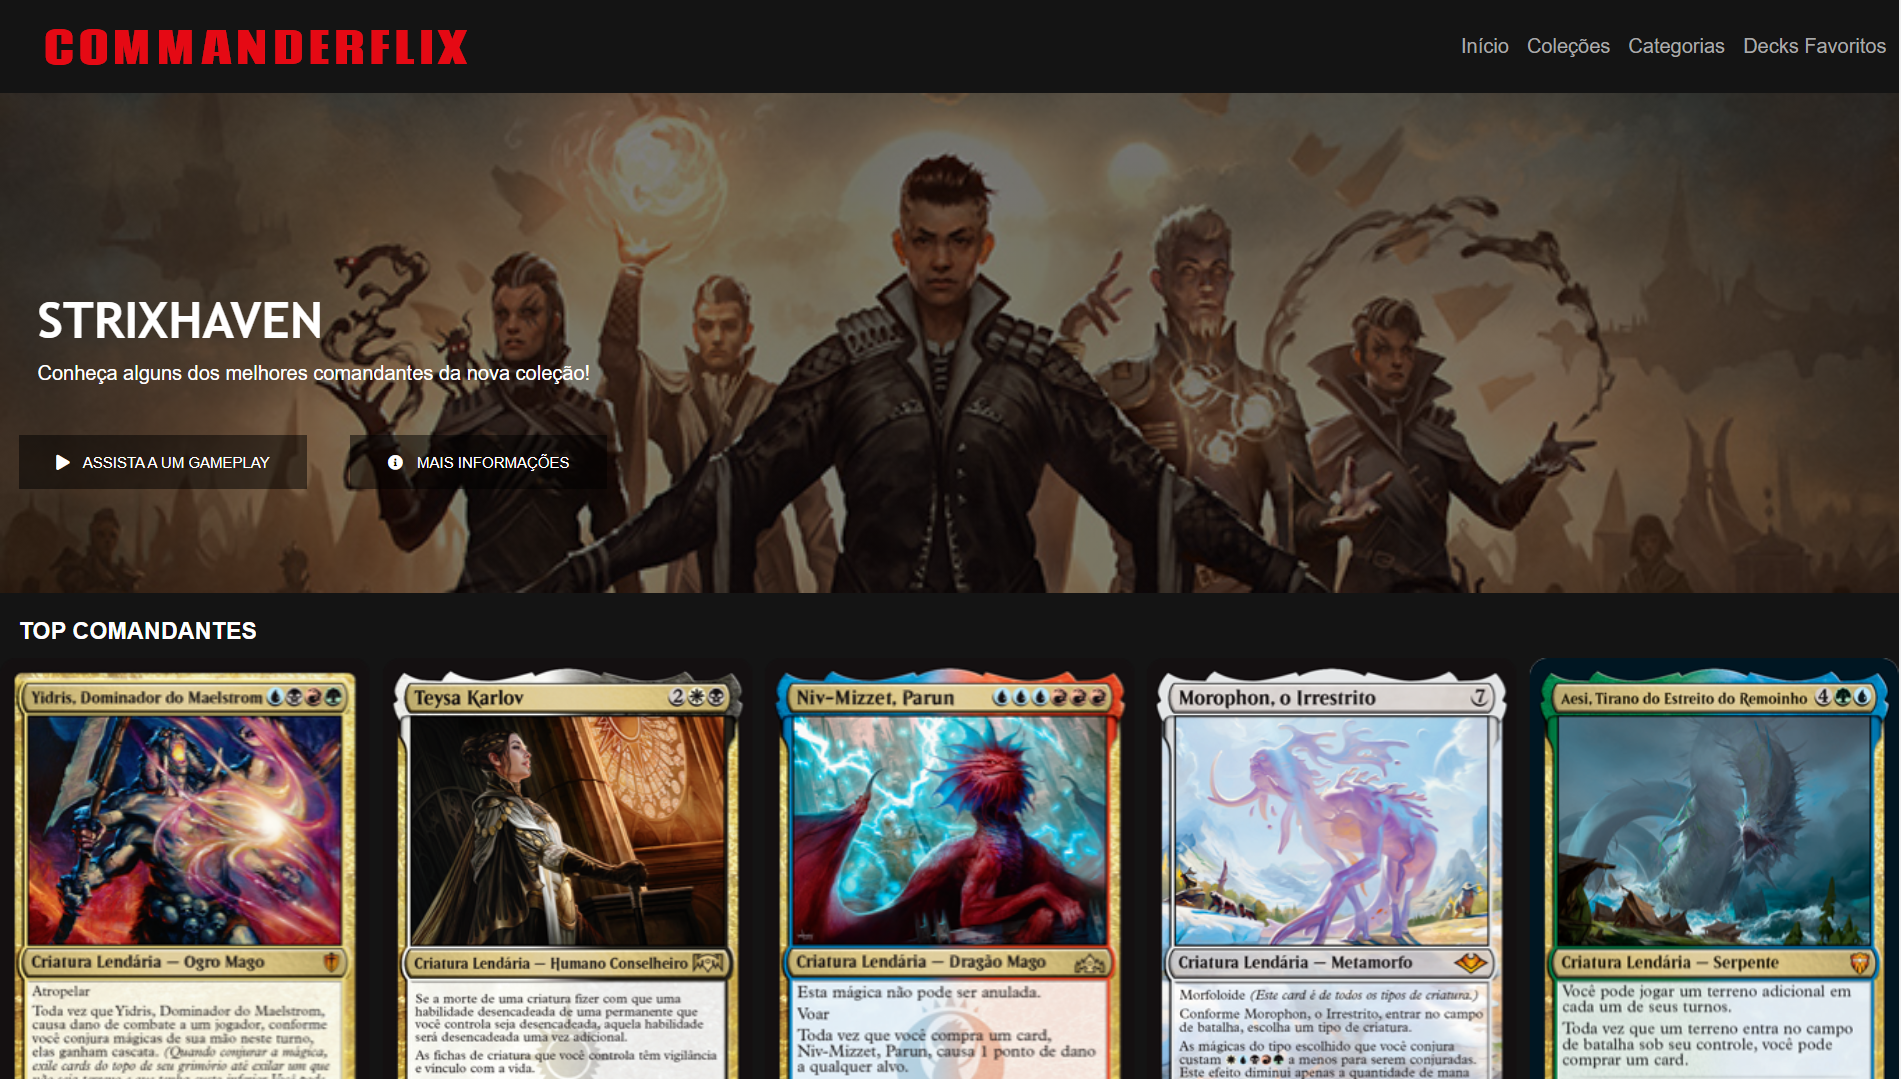
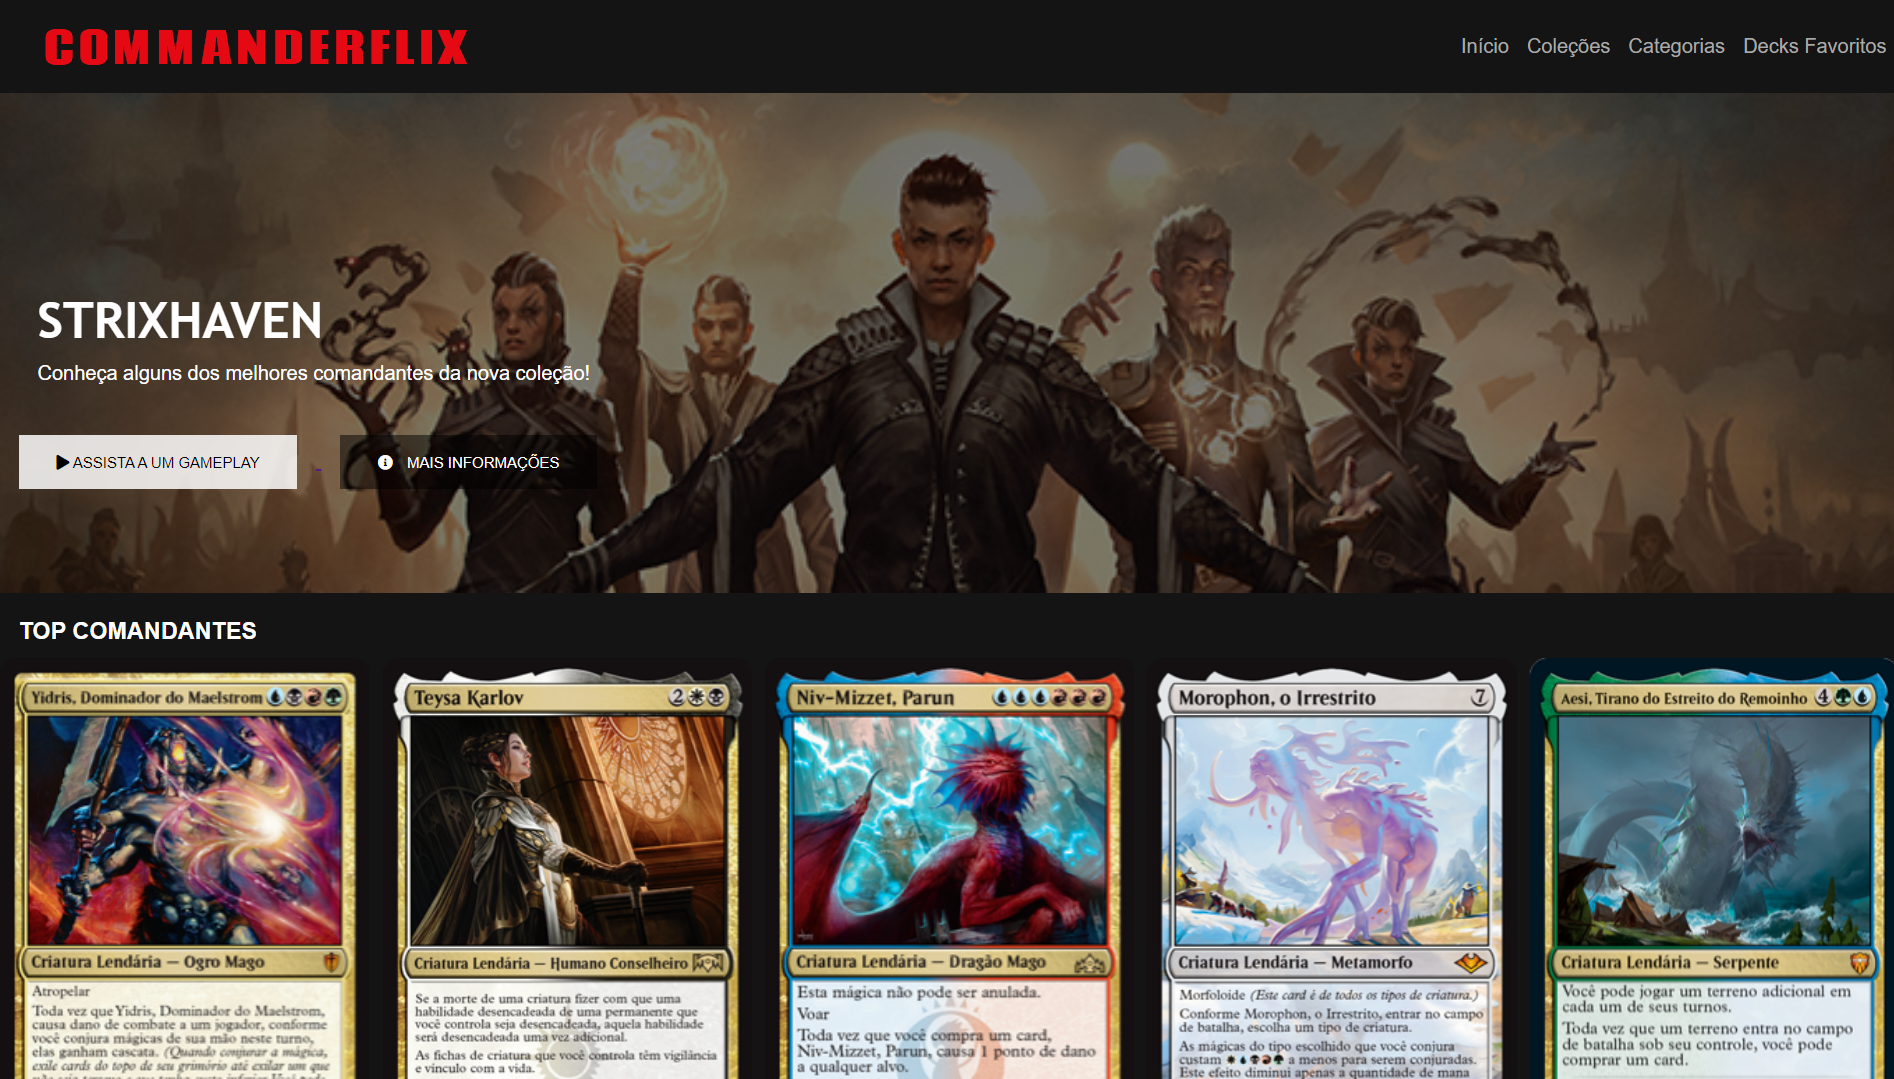
change main button style and updated README image

diff --git a/index.html b/index.html
@@ -38,10 +38,13 @@
             </div>
 
             <div class="botoes">
-                <a href="https://youtu.be/je9_7IQbBZA" target="_blank"><button role="button" class="botao"> <i
-                            class="fas fa-play"></i> ASSISTA A UM GAMEPLAY</button></a>
-                <a href="https://www.ligamagic.com.br/?view=artigos/view&aid=3758" target="_blank"><button role="button"
-                        class="botao"> <i class="fas fa-info-circle"></i> MAIS INFORMAÇÕES</button></a>
+                <a href="https://youtu.be/je9_7IQbBZA" target="_blank">
+                    <button role="button" class="botao-video"><i class="fas fa-play"></i> ASSISTA A UM GAMEPLAY</button>
+                </a>
+                
+                <a href="https://www.ligamagic.com.br/?view=artigos/view&aid=3758" target="_blank">
+                    <button role="button"class="botao"> <i class="fas fa-info-circle"></i> MAIS INFORMAÇÕES</button>
+                </a>
             </div>
         </div>
     </main>

diff --git a/Style/main.css b/Style/main.css
@@ -69,6 +69,21 @@ header nav a:hover {
     margin-top: 10%;
 }
 
+.botao-video {
+    background-color: rgba(255, 255, 255, 0.842);
+    border: none;
+    color: black;
+
+    padding: 15px 30px;
+    margin-right: 15px;
+    margin-left: 15px;
+    font-size: 12px;
+
+    cursor: pointer;
+    transition: .3s ease all;
+
+}
+
 .botao {
     background-color: rgba(0,0,0,.50);
     border: none;
@@ -86,6 +101,11 @@ header nav a:hover {
 .botao:hover {
     background-color: white;
     color: black;
+}
+
+.botao-video:hover {
+    background-color: rgba(0,0,0,.50);
+    color: white;
 }
 
 .botao i {
